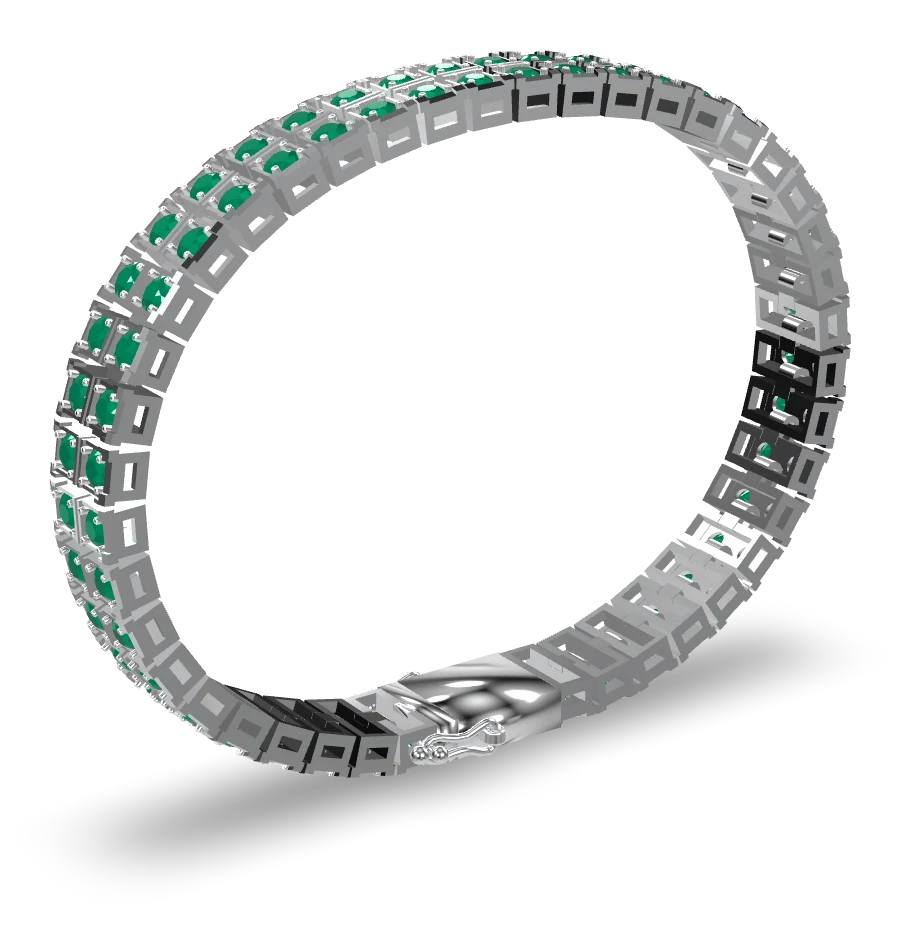
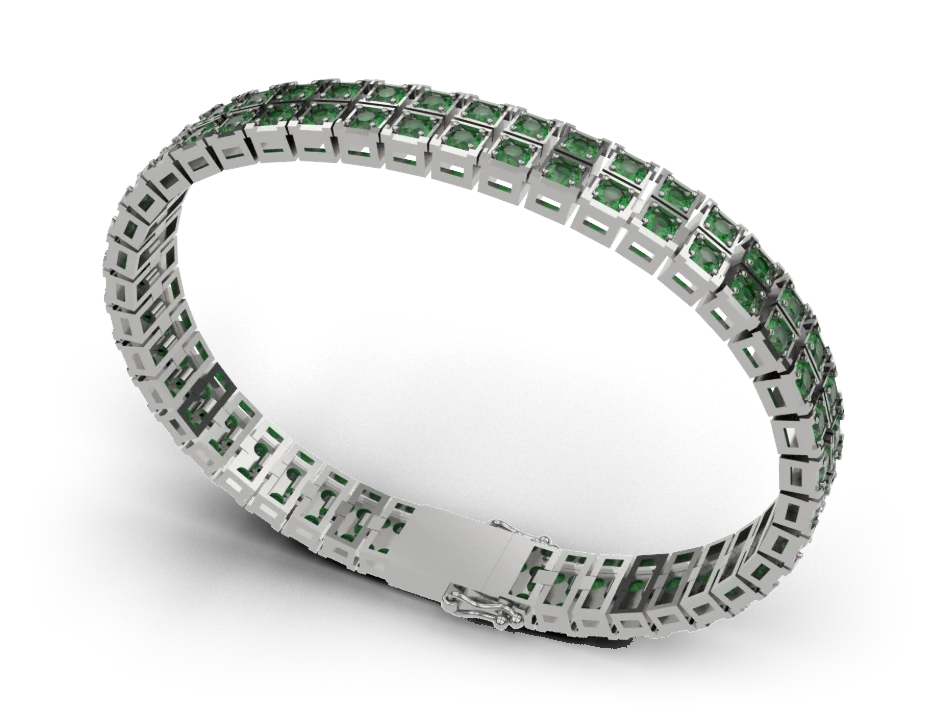
Pulsera de Esmeraldas: render oficial como portada y tarjeta del inicio
Claude-Session: https://claude.ai/code/session_015jQgXxtUnQt7CDozEfjhVp

diff --git a/project.html b/project.html
@@ -9,7 +9,7 @@
   <link rel="preload" href="fonts/instrument-serif-latin-400-normal.woff2" as="font" type="font/woff2" crossorigin>
   <link rel="preload" href="fonts/inter-latin-wght-normal.woff2" as="font" type="font/woff2" crossorigin>
   <script>try{var t=localStorage.getItem("mp-theme");if(t)document.documentElement.dataset.theme=t}catch(e){}</script>
-  <link rel="stylesheet" href="css/style.css?v=20261112022539">
+  <link rel="stylesheet" href="css/style.css?v=20261112143159">
   <script>self.ModelViewerElement = { meshoptDecoderLocation: "js/vendor/meshopt_decoder.js" };</script>
   <script type="module" src="js/vendor/model-viewer.min.js"></script>
 </head>
@@ -17,8 +17,8 @@
   <header class="nav" id="site-nav"></header>
   <main id="project"></main>
   <footer id="site-footer"></footer>
-  <script src="js/i18n.js?v=20261112022539"></script>
-  <script src="js/data.js?v=20261112022539"></script>
-  <script src="js/app.js?v=20261112022539"></script>
+  <script src="js/i18n.js?v=20261112143159"></script>
+  <script src="js/data.js?v=20261112143159"></script>
+  <script src="js/app.js?v=20261112143159"></script>
 </body>
 </html>

diff --git a/index.html b/index.html
@@ -14,7 +14,7 @@
   <link rel="preload" href="fonts/instrument-serif-latin-400-normal.woff2" as="font" type="font/woff2" crossorigin>
   <link rel="preload" href="fonts/inter-latin-wght-normal.woff2" as="font" type="font/woff2" crossorigin>
   <script>try{var t=localStorage.getItem("mp-theme");if(t)document.documentElement.dataset.theme=t}catch(e){}</script>
-  <link rel="stylesheet" href="css/style.css?v=20261112022539">
+  <link rel="stylesheet" href="css/style.css?v=20261112143159">
   <script>self.ModelViewerElement = { meshoptDecoderLocation: "js/vendor/meshopt_decoder.js" };</script>
   <script type="module" src="js/vendor/model-viewer.min.js"></script>
 </head>
@@ -124,8 +124,8 @@
     </div>
   </div>
 
-  <script src="js/i18n.js?v=20261112022539"></script>
-  <script src="js/data.js?v=20261112022539"></script>
-  <script src="js/app.js?v=20261112022539"></script>
+  <script src="js/i18n.js?v=20261112143159"></script>
+  <script src="js/data.js?v=20261112143159"></script>
+  <script src="js/app.js?v=20261112143159"></script>
 </body>
 </html>

diff --git a/js/data.js b/js/data.js
@@ -90,7 +90,7 @@ window.PROJECTS = [
     credits: [
       { label: { es: "Mi participación", en: "Role" }, value: { es: "Modelado 3D de joyería y desarrollo técnico", en: "3D Jewelry Modeling & Technical Development" } },
     ],
-    cover: "assets/img/projects/bracelet-render-completo.webp",
+    cover: "assets/img/projects/bracelet-render-completo.webp?v=20261112143153",
     hover: "assets/img/projects/bracelet-muneca.webp",
     overview: {
       es: ["Este proyecto se centra en el desarrollo técnico 3D de una pulsera de esmeraldas, combinando repetición geométrica, distribución de piedras y consideraciones estructurales. El proceso de modelado requirió especial atención a las proporciones, la alineación y la relación entre los diferentes componentes.",

diff --git a/cv.html b/cv.html
@@ -58,8 +58,8 @@
 <body>
   <div class="bar"><a href="index.html" id="back"></a><a href="#" id="toggle"></a><a class="primary" id="dl" href="#"></a></div>
   <div class="sheet" id="sheet"></div>
-  <script src="js/data.js?v=20261112022539"></script>
-  <script src="js/cv-data.js?v=20261112022539"></script>
+  <script src="js/data.js?v=20261112143159"></script>
+  <script src="js/cv-data.js?v=20261112143159"></script>
   <script>
     const qs = new URLSearchParams(location.search);
     const lang = qs.get("lang") === "en" ? "en" : "es";
